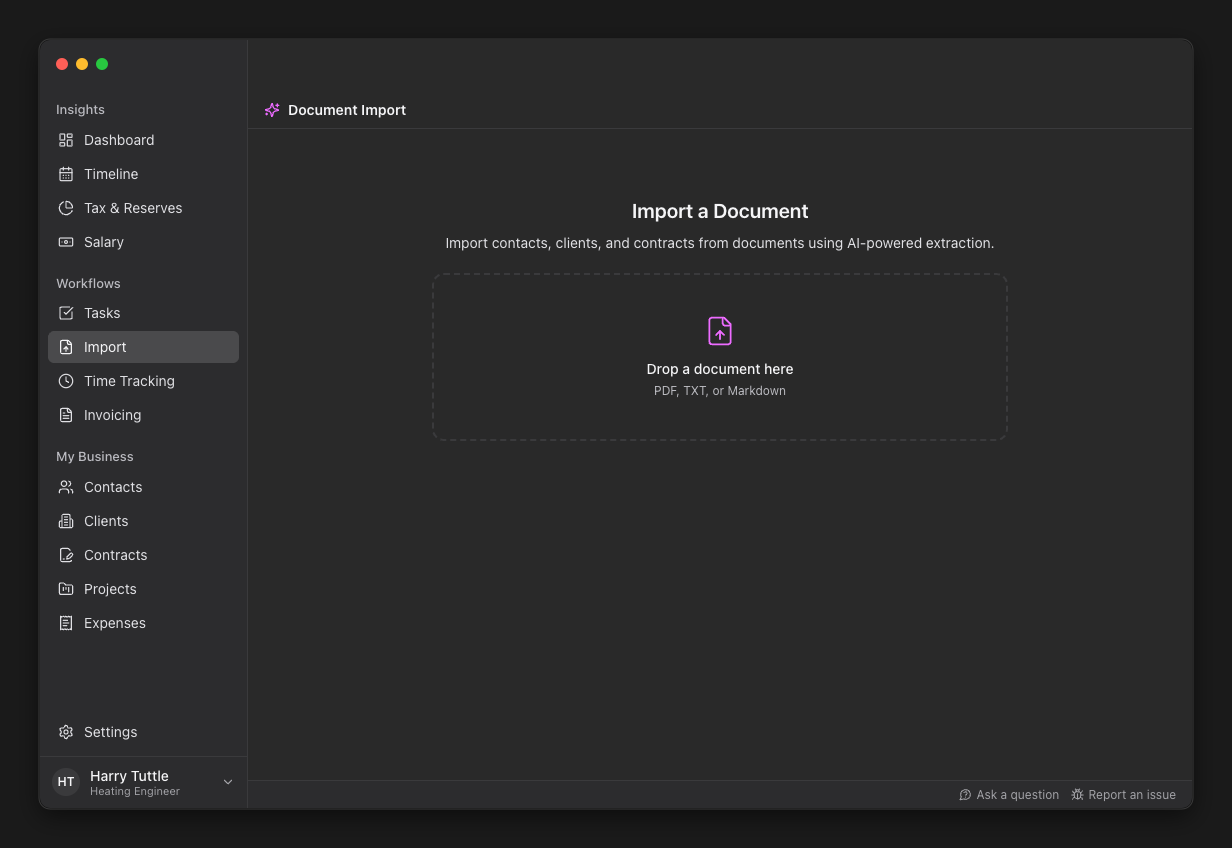
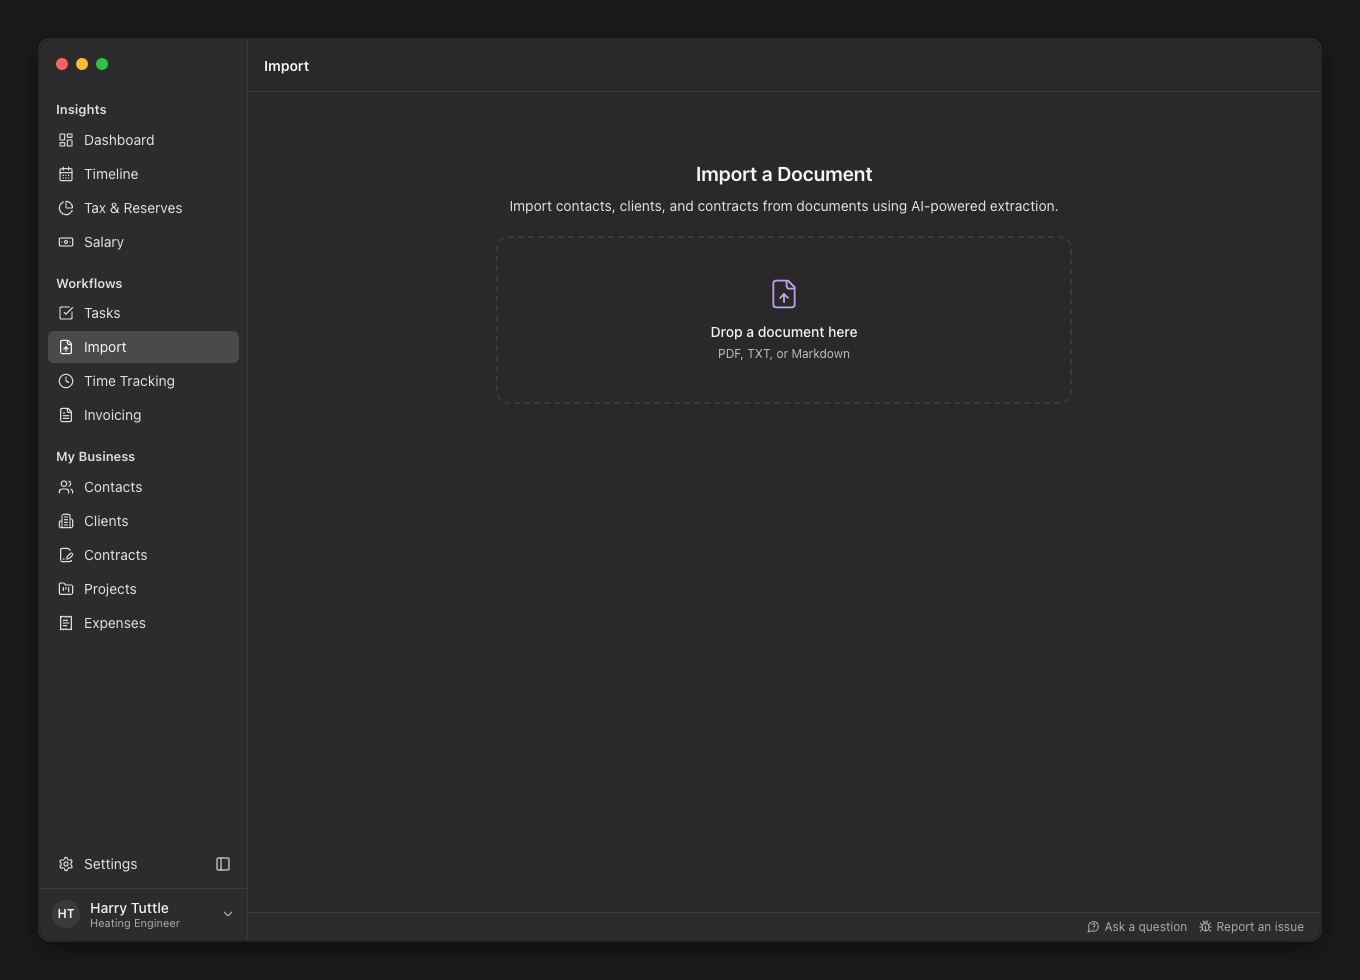
Update README and landing page screenshots for 5.0 (#569)
Recaptured all six screenshots from the current UI with the demo user in
an isolated data directory. The window is 1280x900 instead of 1152x768,
so the dashboard shows its full revenue chart and four KPI columns.

diff --git a/index.html b/index.html
@@ -415,7 +415,7 @@
       </p>
 
       <div class="hero-shot reveal">
-        <img src="assets/images/screenshot-dashboard.png" width="1232" height="848"
+        <img src="assets/images/screenshot-dashboard.png" width="1360" height="980"
              alt="Tuttle dashboard showing revenue, outstanding invoices, effective hourly rate and a monthly revenue chart." />
       </div>
     </div>
